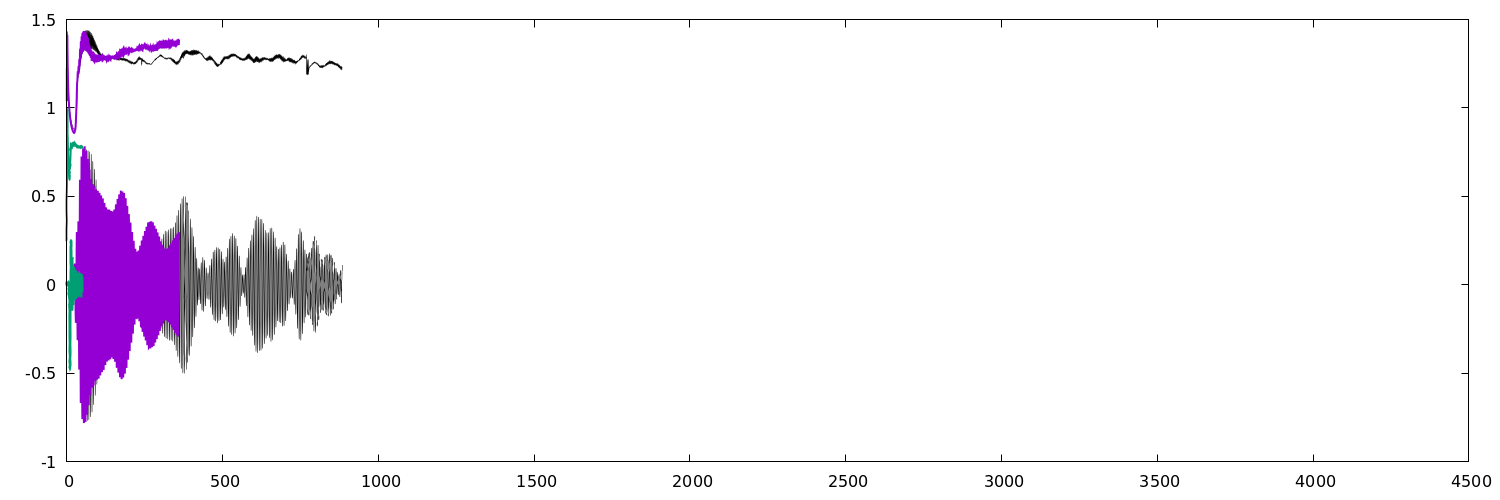
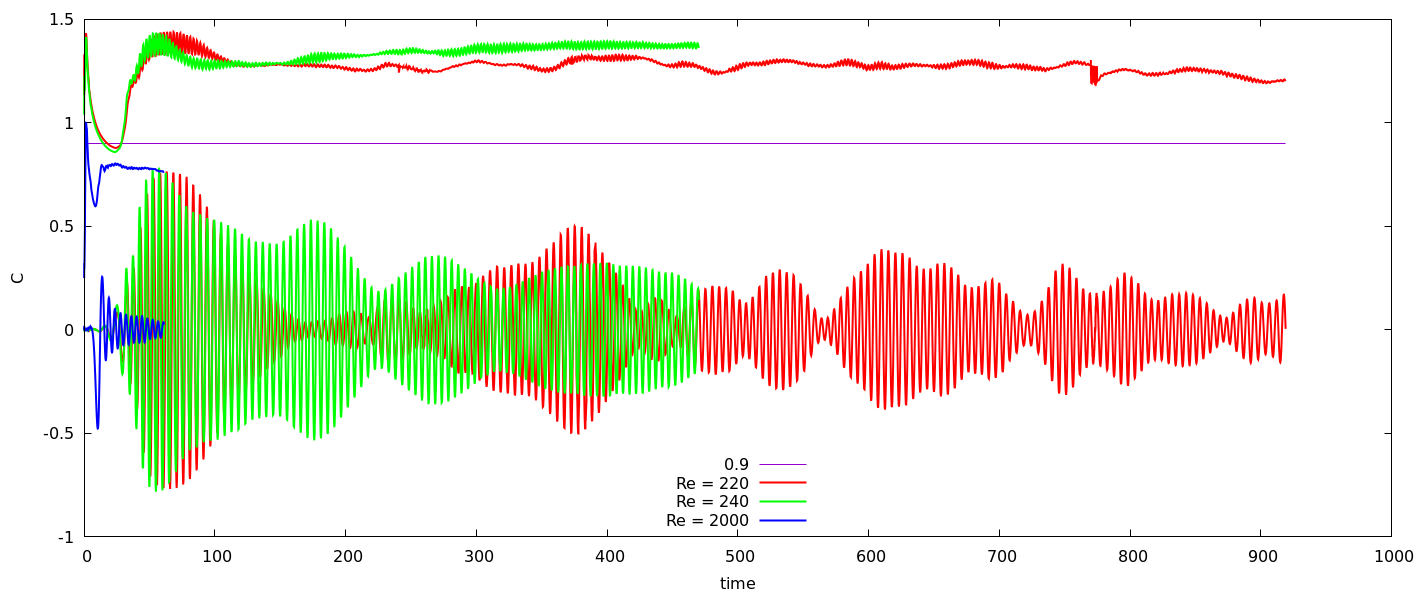
add postprocessing scripts

Changed region(s): [[0.0309, 0.03, 0.9902, 0.84], [0.0309, 0.75, 1.0, 0.99]]

diff --git a/3d/ref/README.md b/3d/ref/README.md
@@ -1,0 +1,7 @@
+<pre>
+for r in 2000 220 240
+do for i in 0 1 2 3 4 5
+   do rsync rc:/n/holyscratch01/koumoutsakos_lab/slitvinov/$r/$i/force.dat $r/$i.dat
+   done
+done
+</pre>
